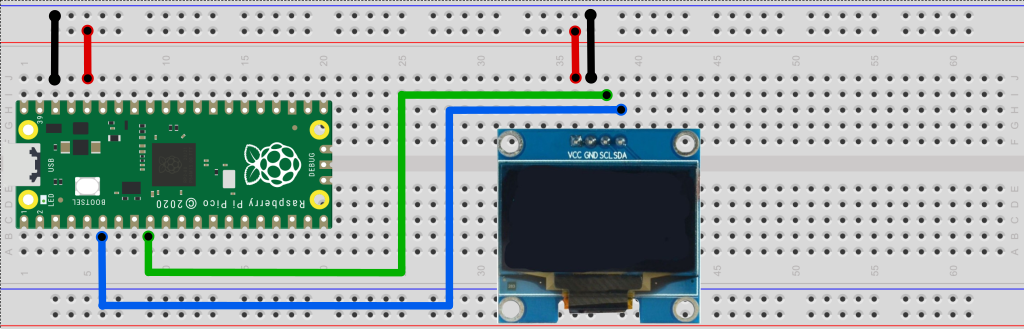
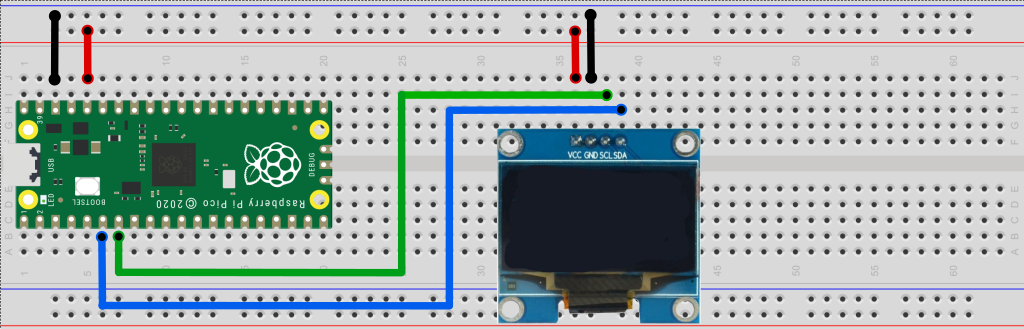
Fixed the wiring diagram.

Changed region(s): [[0.0938, 0.2736, 0.4062, 0.8511]]

diff --git a/README.md b/README.md
@@ -65,7 +65,7 @@ Flash your board with the corresponding firmware from  <https://github.com/zapta
 
 | Board         | SDA |  SCL | Internal Pullups | Max Voltage |
 |--------------|-----------|------------|:------------:|---|
-| Raspberry Pico | GPIO4 | GPIO5 |  No|  3.3V |
+| Raspberry Pico | GP4 | GP5 |  No|  3.3V |
 | Sparkfun Pro Micro RP2040 | Qwicc SDA | Qwicc SCL | 2.2K |  3.3V|
 | Adafruit KB2040 | Qwicc SDA | Qwicc SCL | No | 3.3V|
 | Adafruit QT Py RP2040 | Qwicc SDA | Qwicc SCL | No | 3.3V |
